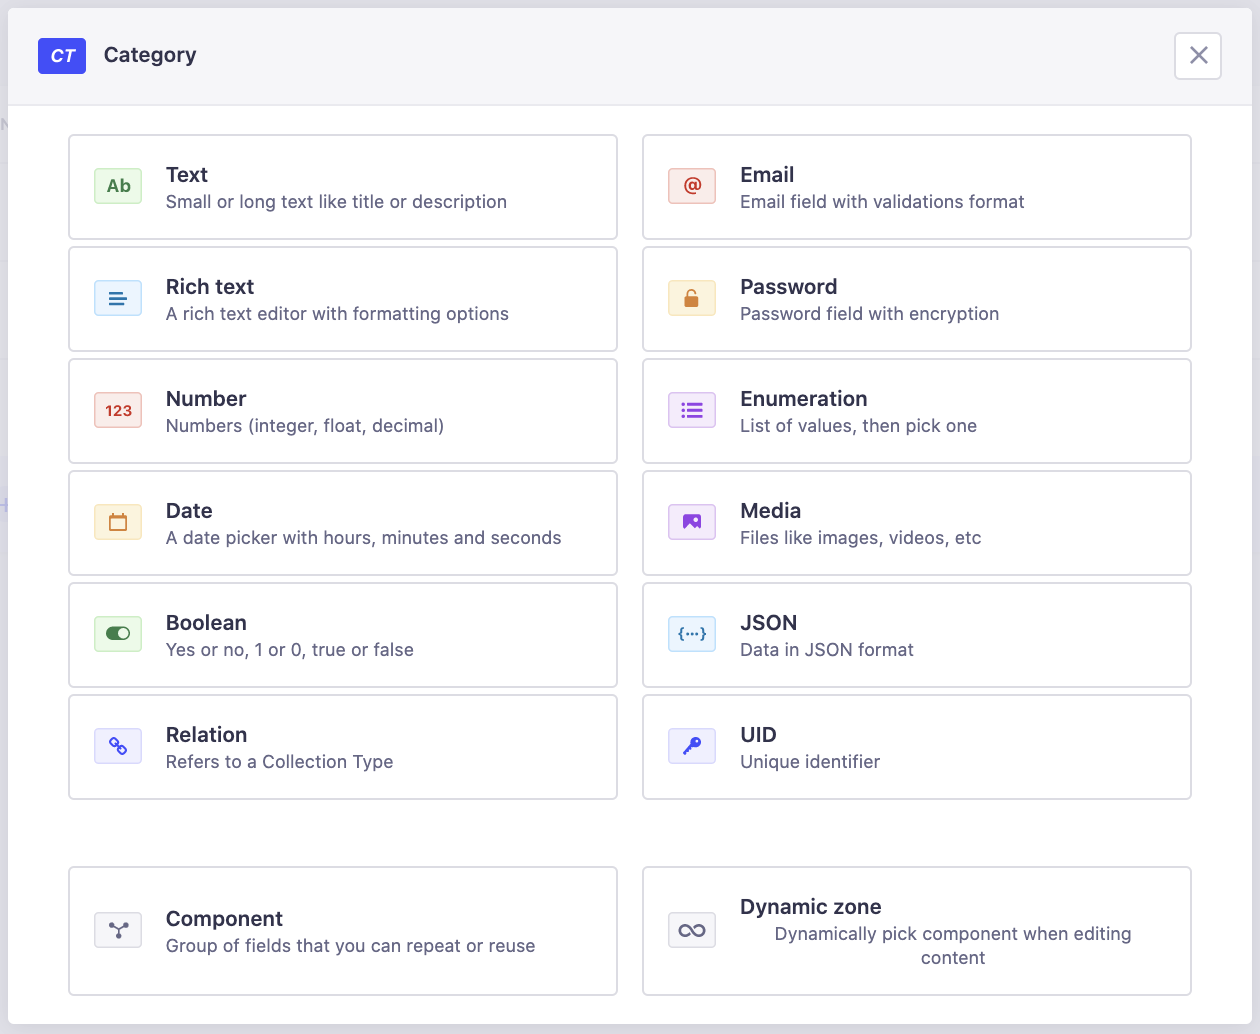
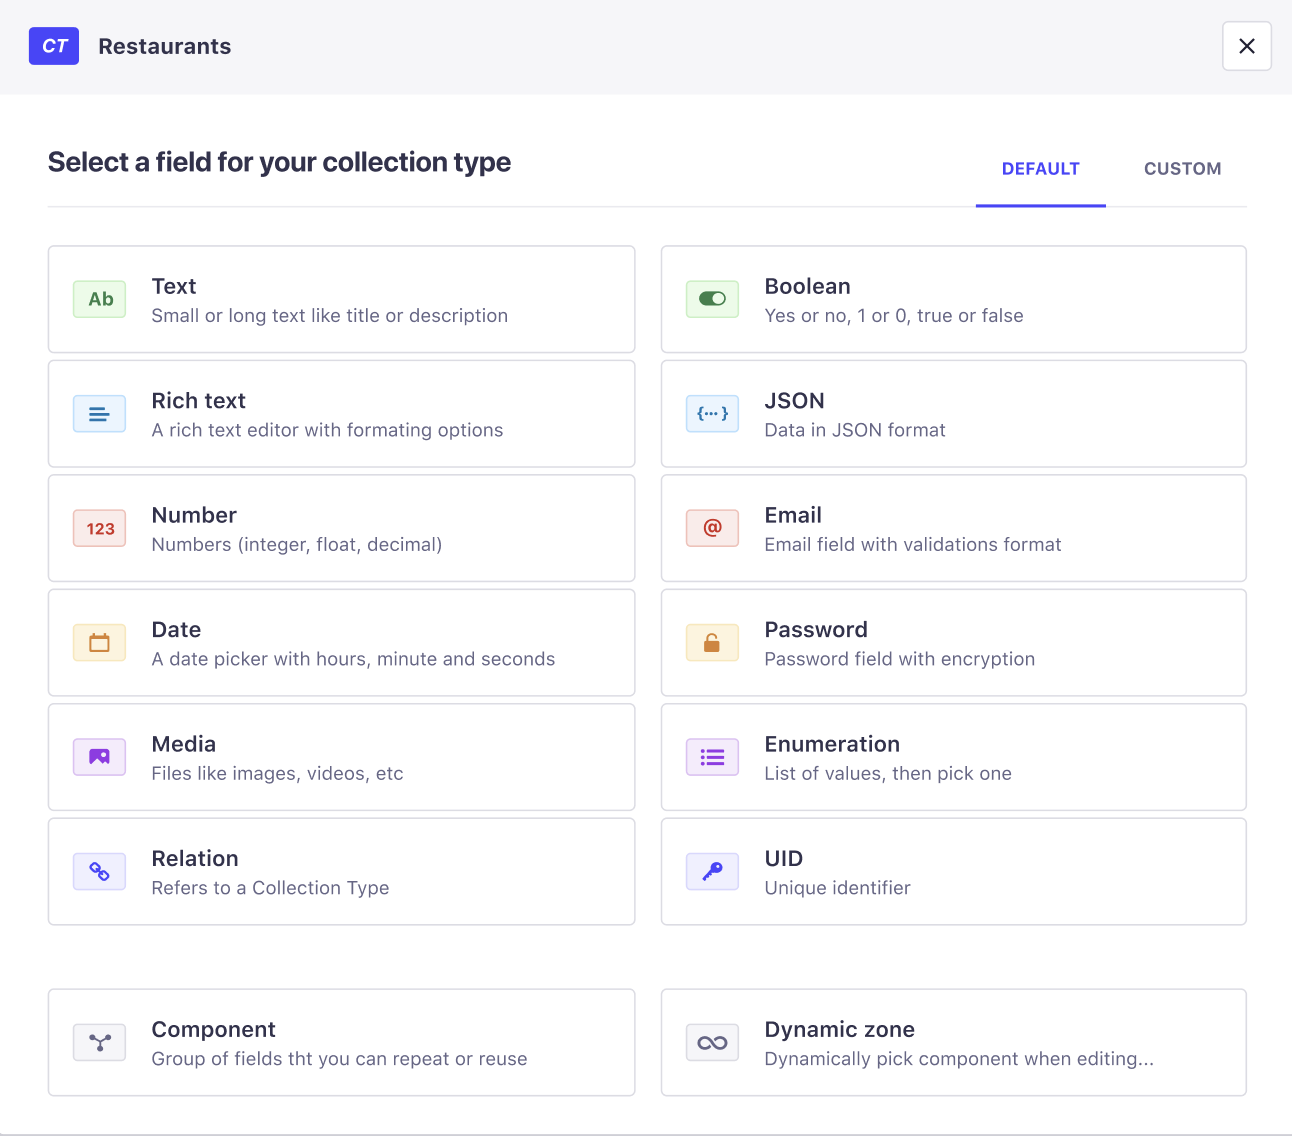
[WIP] Custom Fields: Updates to Content-Type Builder documentation (#1018)
* Add custom fields h2

* Replace field selection screenshot

* Update "Configuring fields for content-types"

* Add TODO for possible "managing custom fields" content

* Reword marketplace mention and fix link

* Fix rendering issue caused by missing blank line after code block

* Delete deprecated comments

diff --git a/docs/user-docs/latest/content-types-builder/configuring-fields-content-type.md b/docs/user-docs/latest/content-types-builder/configuring-fields-content-type.md
@@ -13,15 +13,18 @@ canonicalUrl: https://docs.strapi.io/user-docs/latest/content-types-builder/conf
 
 Content-types are composed of one or several fields. Each field is designed to contain specific kind of data, filled up in the Content Manager (see [Writing content](/user-docs/latest/content-manager/writing-content.md)).
 
-In the Content-type Builder, fields can be added at the creation of a new content-type or component, or afterward when a content-type or component is edited or updated. The following documentation lists all existing regular fields but also tackles the specificities of components and dynamic zones. For each, you will find a definition, explanation of the form they take once in the Content Manager, and instructions to configure them.
+In the Content-type Builder, fields can be added at the creation of a new content-type or component, or afterward when a content-type or component is edited or updated. The following documentation lists all existing regular fields but also tackles the specificities of custom fields, components, and dynamic zones. For each, you will find a definition, explanation of the form they take once in the Content Manager, and instructions to configure them.
 
 ::: note
-Depending on what content-type or component is being created or edited, not all fields -including components and dynamic zones- are always available.
+Depending on what content-type or component is being created or edited, not all fields — including components and dynamic zones — are always available.
 :::
 
+<!-- TODO update screenshot with final version -->
 <img src="../assets/content-types-builder/fields-selection.png" alt="Field selection" width="80%">
 
 ## Regular fields
+
+Regular fields are Strapi's default, built-in types of fields. Regular fields are listed in the _Default_ tab when selecting a field for a content-type.
 
 ### <img width="28" src="../assets/icons/ctb_text.svg"> Text
 
@@ -390,6 +393,16 @@ The UID field displays a field that sets a unique identifier, optionally based o
 :::
 
 ::::
+
+<!-- TODO: maybe add an icon to the title below, just like with all other sections, if we have generic "custom field" icon? -->
+## Custom fields
+
+Custom fields are a way to extend Strapi’s capabilities by adding new types of fields to content-types. Once installed (see [Marketplace](/user-docs/latest/plugins/installing-plugins-via-marketplace.md) documentation), custom fields are listed in the _Custom_ tab when selecting a field for a content-type.
+<!-- TODO: update the link above if a new section is created or if we update the h2 in the other page -->
+
+Each custom field type can have basic and advanced settings. The [Marketplace](https://market.strapi.io/) lists all available custom fields and hosts dedicated documentation for each custom field, including specific settings.
+
+<!-- TODO: Decide whether we describe how to edit CF (custom fields) (if possible) and delete them — and where we should host these documentation sections. We currently don't explain how to delete plugins (see Installing plugins from the marketplace section). -->
 
 ## <img width="28" src="../assets/icons/ctb_component.svg"> Components
 
